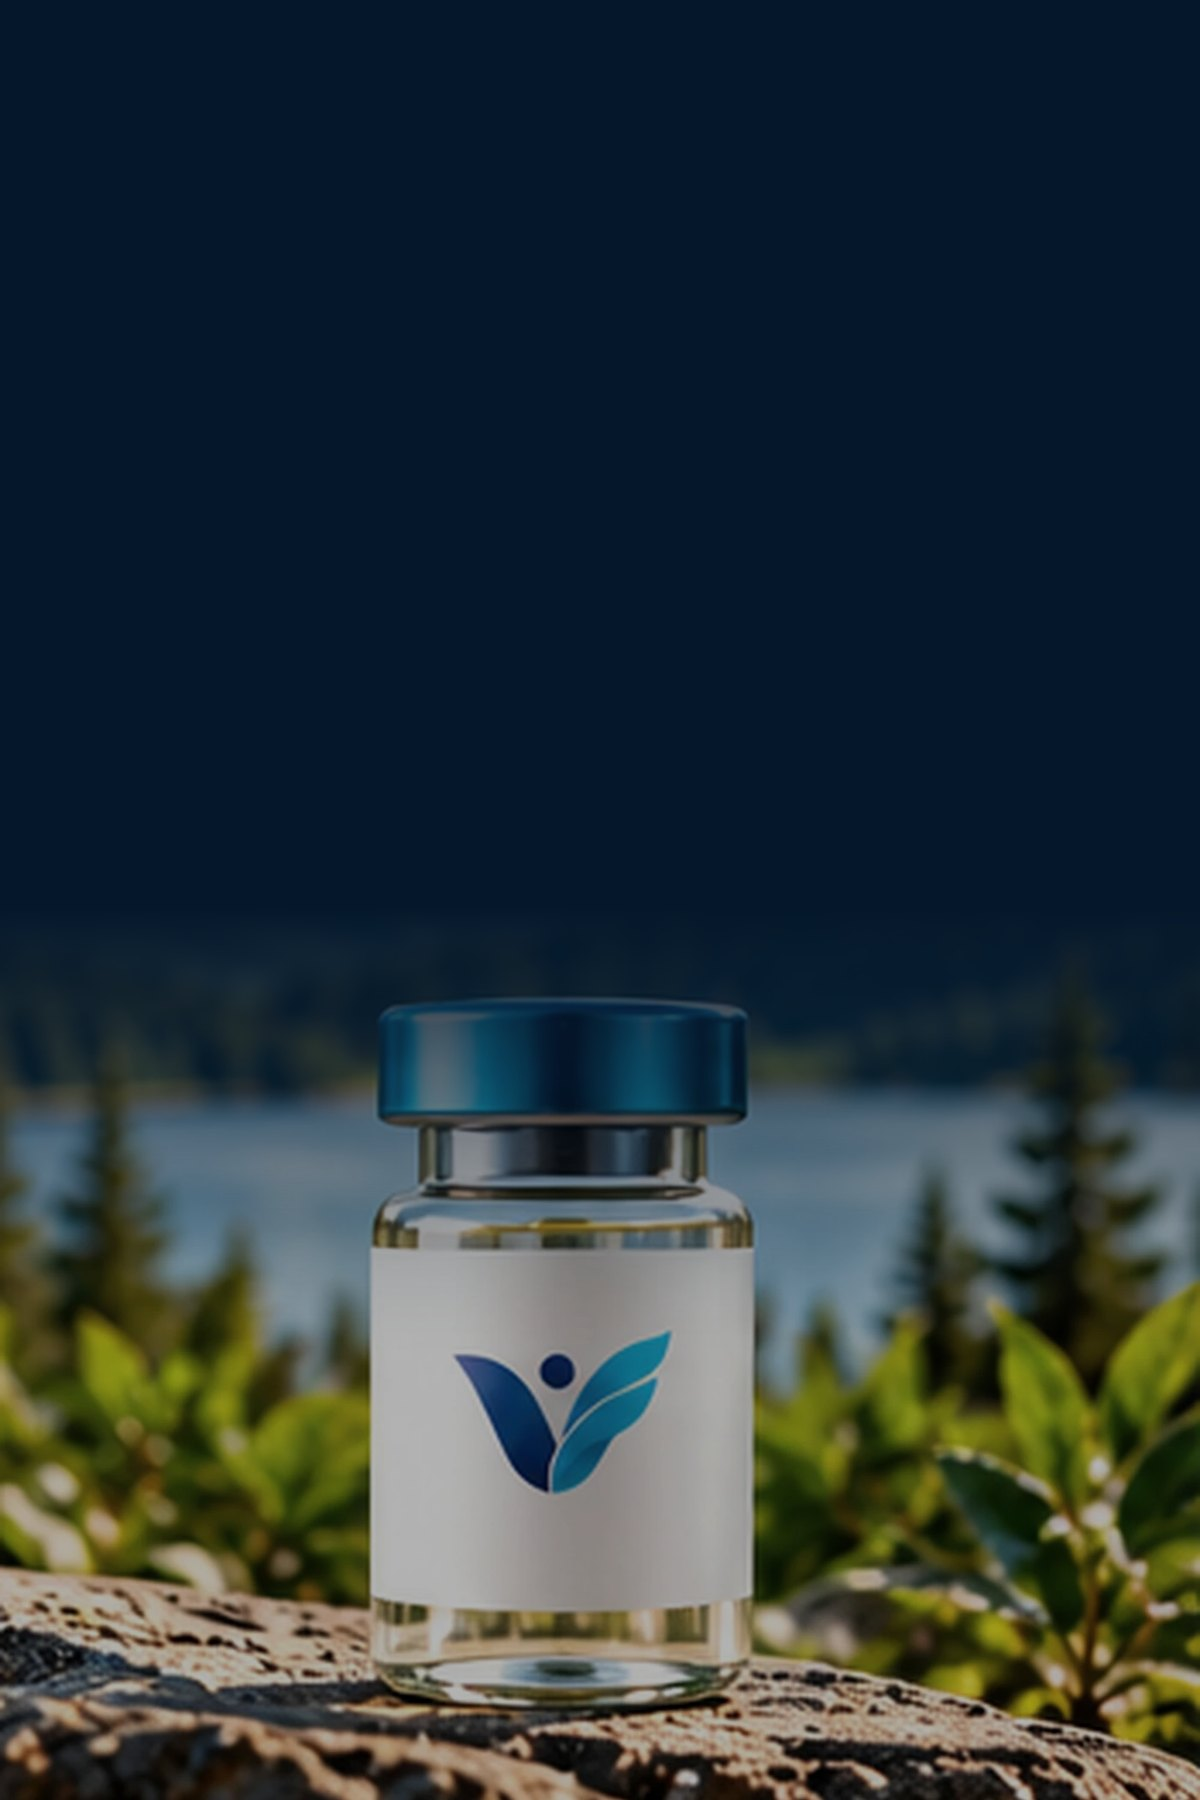
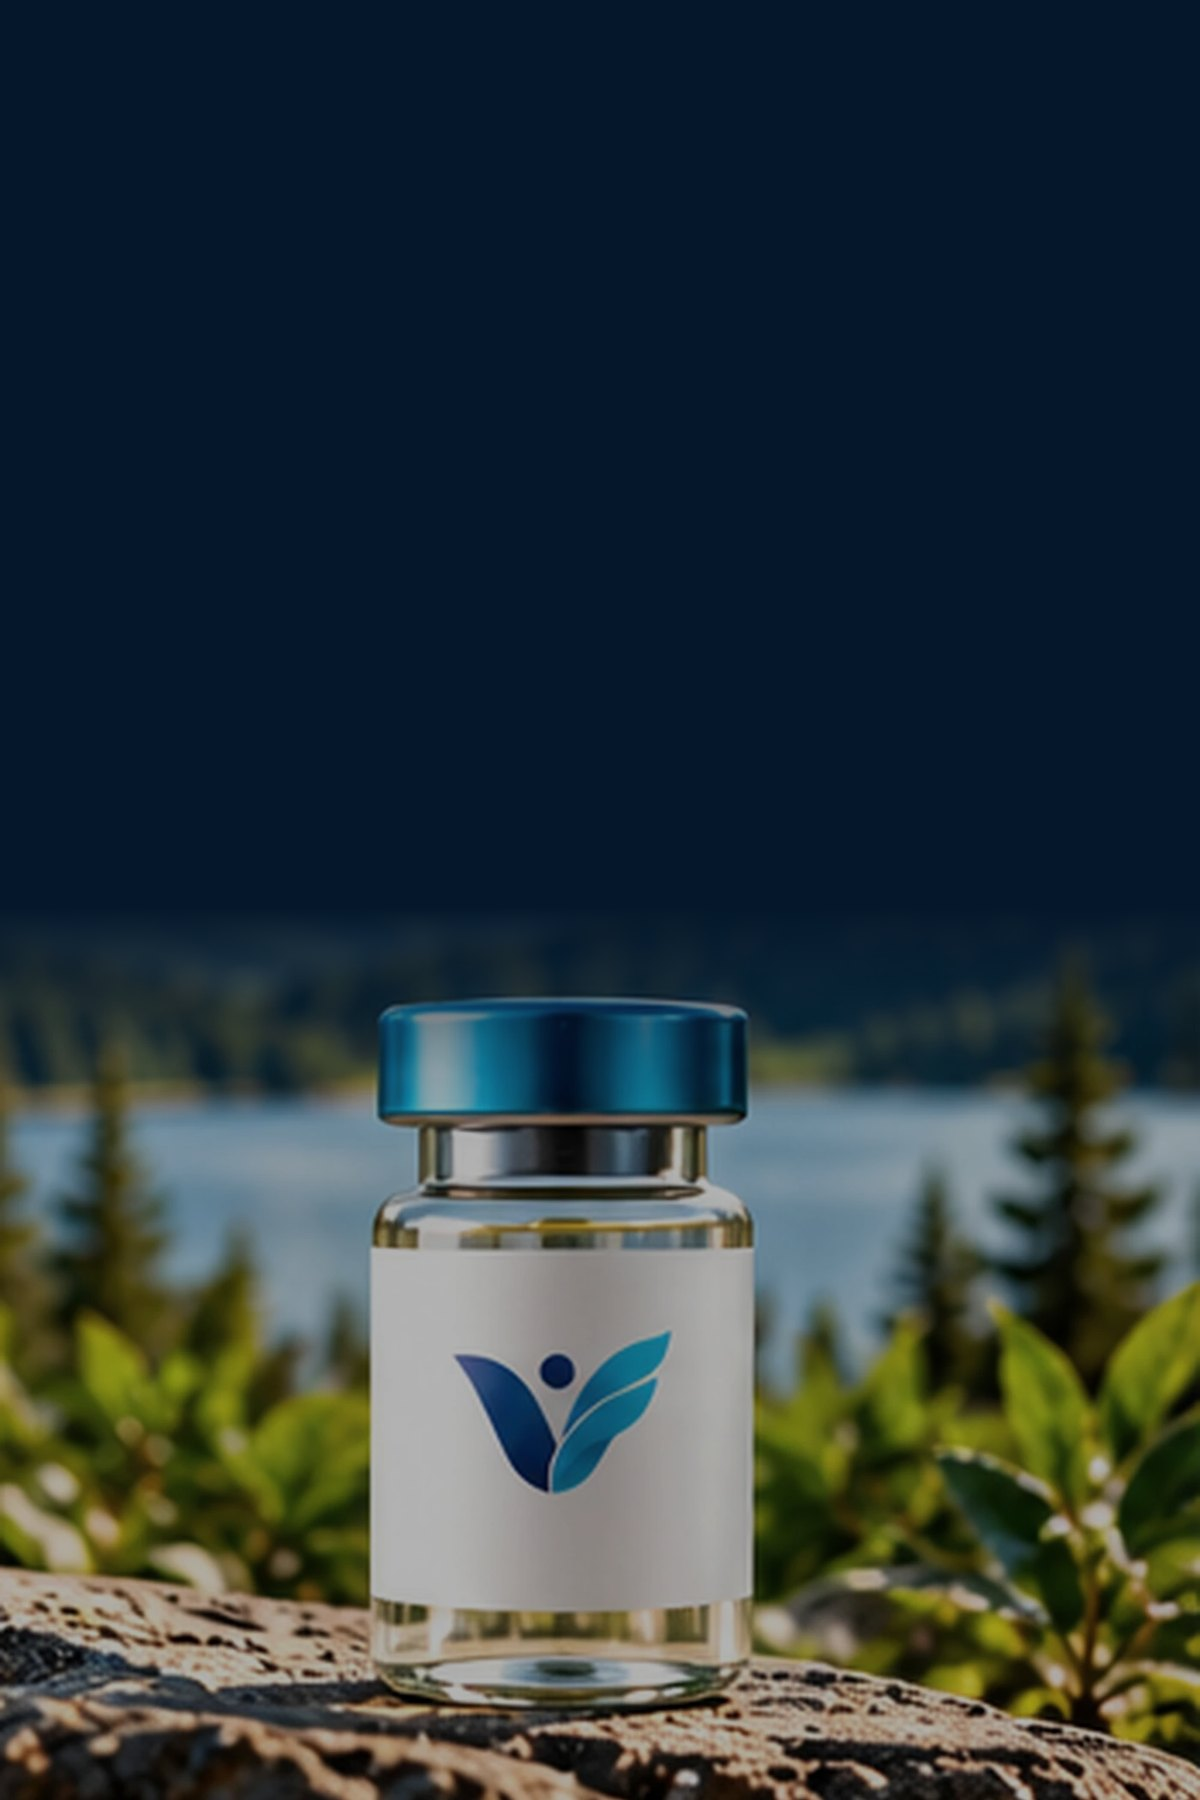
Cart 3: narrower copy and button, a shorter fade into the photo
- The line under "Your Cart Is Waiting" keeps a narrower measure (345px),
  breaking into three even lines as designed; the button is the standard
  wide size rather than the large one
- The navy fades into the photo over a much shorter band, so the photo
  shows from just under the button

Claude-Session: https://claude.ai/code/session_01D9wyYeR5ucDGRSLEYABcrG

Changed region(s): [[0.0, 0.5289, 0.8633, 0.6844], [0.8942, 0.5911, 1.0, 0.6844]]

diff --git a/lib/email-flows/render.ts b/lib/email-flows/render.ts
@@ -640,11 +640,11 @@ function offerLayout(k: Kit, opts: { buttonInCover?: boolean } = {}): string {
           ${eyebrow ? `<p style="font-family: ${T.font}; font-size: 12px; font-weight: 600; letter-spacing: 0.26em; text-transform: uppercase; color: ${T.tealLight}; margin: 0 0 16px;">${escapeHtml(eyebrow)}</p>` : ''}
           ${headline ? `<h1 class="ef-offer-h1" style="font-family: ${T.display}; font-size: 76px; font-weight: 800; line-height: 1; letter-spacing: -0.01em; color: #FFFFFF; margin: 0 0 10px;">${escapeHtml(headline)}</h1>` : ''}
           ${sub ? `<p class="ef-offer-sub" style="font-family: ${T.display}; font-size: 28px; font-weight: 600; color: #FFFFFF; margin: 0 0 14px;">${escapeHtml(sub)}</p>` : ''}
-          ${bodyText ? `<p class="ef-offer-body" style="font-family: ${T.font}; font-size: 18px; line-height: 1.5; color: #D6E4EA; margin: 0 auto; max-width: ${opts.buttonInCover ? 440 : 330}px;">${escapeHtml(bodyText)}</p>` : ''}
+          ${bodyText ? `<p class="ef-offer-body" style="font-family: ${T.font}; font-size: 18px; line-height: 1.5; color: #D6E4EA; margin: 0 auto; max-width: ${opts.buttonInCover ? 345 : 330}px;">${escapeHtml(bodyText)}</p>` : ''}
           ${k.ctx.offer ? `<table role="presentation" cellpadding="0" cellspacing="0" border="0" align="center" style="margin: 22px auto 0;">
             <tr><td class="ef-offer-code" style="border: 1.5px solid ${T.tealLight}; border-radius: 6px; padding: 12px 30px; font-family: ${T.font}; font-size: 18px; color: #FFFFFF;">Use Code: <strong style="letter-spacing: 0.08em;">${escapeHtml(k.ctx.offer.code)}</strong></td></tr>
           </table>` : ''}
-          ${opts.buttonInCover ? `<div style="height: 22px; line-height: 22px; font-size: 0;">&nbsp;</div>${button(k, s.cta_label, s.cta_url, { wide: true, large: true, onDark: true })}` : ''}
+          ${opts.buttonInCover ? `<div style="height: 22px; line-height: 22px; font-size: 0;">&nbsp;</div>${button(k, s.cta_label, s.cta_url, { wide: true, onDark: true })}` : ''}
         </div>`,
         { padding: '42px 28px', cellClass: 'ef-offer-cover' },
       ),

diff --git a/docs/changelog/2026-10-15-email-flows.md b/docs/changelog/2026-10-15-email-flows.md
@@ -273,7 +273,10 @@ phones), so it breaks after "Quality." as designed. Phones set the type back.
 
 **Cart 3** (`cart-offer-cover`) shares Welcome 4's dark cover, built from
 the supplied vial-on-a-rock photo. Its Complete My Order button sits in the
-cover under the code, in a brighter blue that stands off the navy. The
+cover under the code, in a brighter blue that stands off the navy. The copy
+keeps a narrow measure (the line breaks into three even lines, the button
+is the standard wide one), and the navy fades into the photo over a short
+band, so the photo shows from just under the button. The
 badges and the offer's end time follow below.
 
 **Bold benefits on the covers** (Welcome 2, Cart 2): the labels are extra
